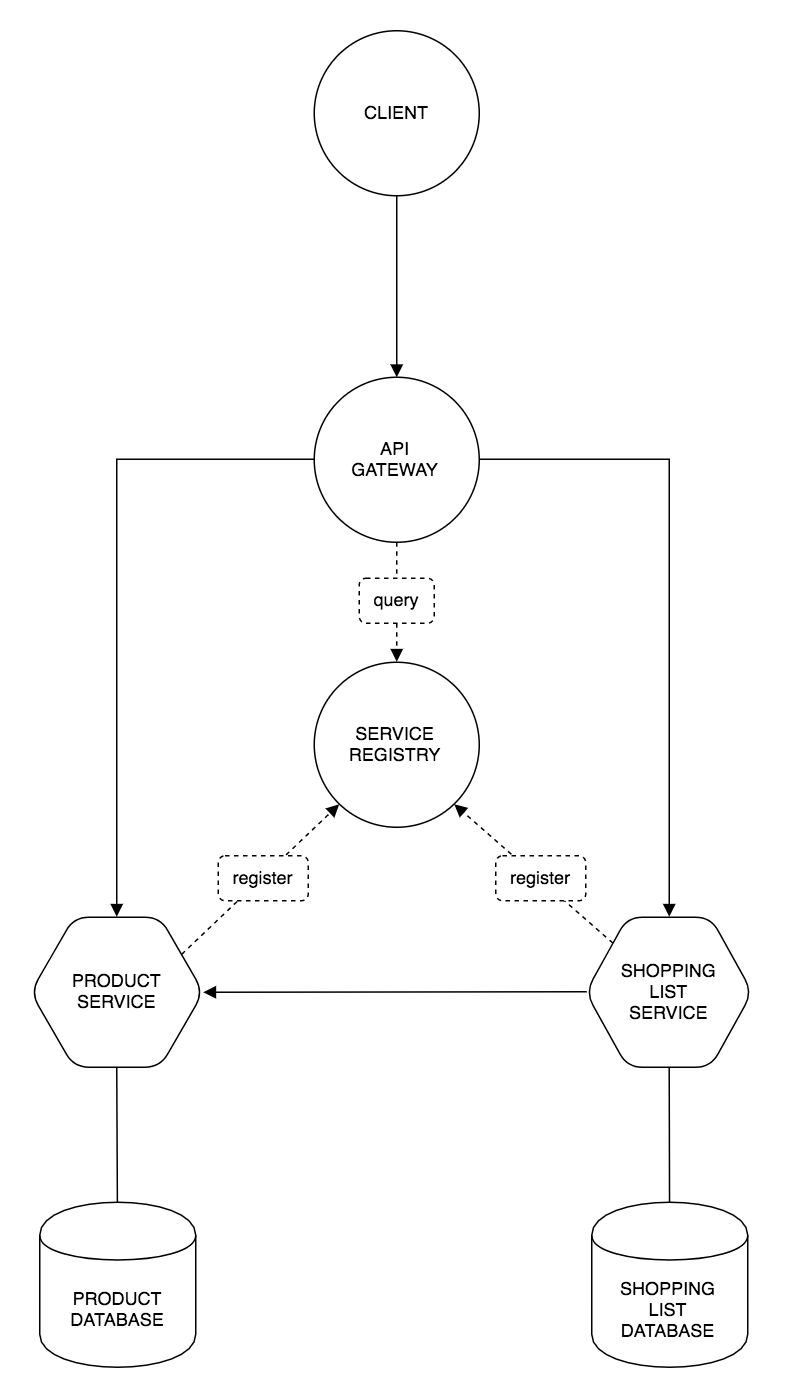
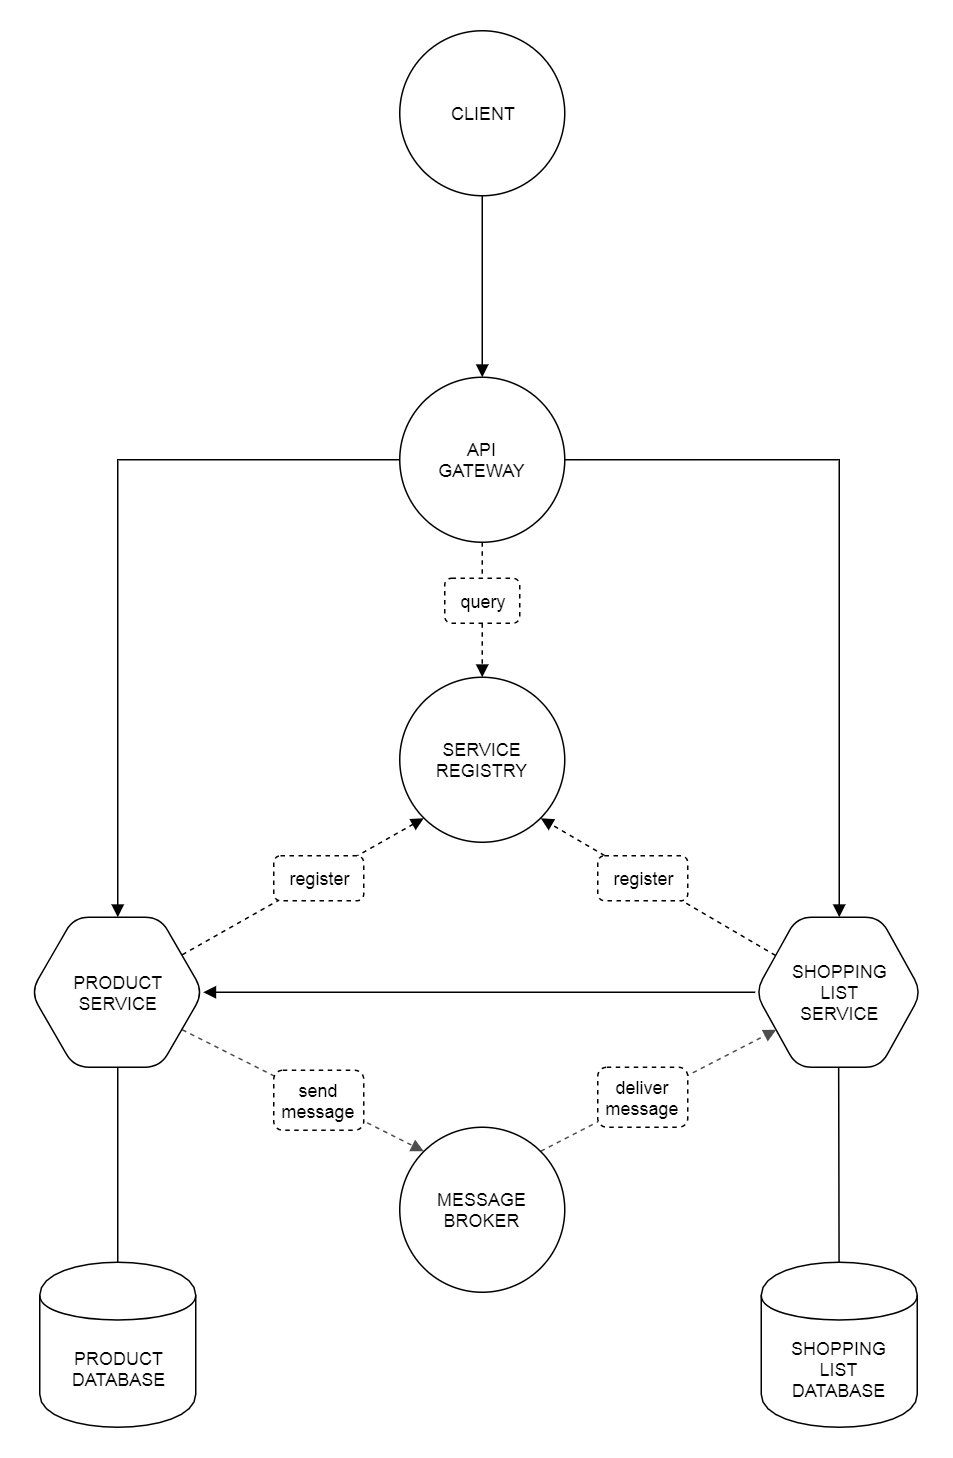
Update diagram with message broker.

diff --git a/README.md b/README.md
@@ -33,7 +33,7 @@ This application depends on external services. Ensure that these services are up
 
 ### MongoDB
 
-Shopping and product services use MongoDB for persistence, using different databases for each service.
+Shopping and product services use MongoDB for persistence, but different databases are used for each service.
 
 Before running the application, ensure that you have a MongoDB instance running on `localhost` port `27017` (default port). The `product` and `shopping-list` databases will be created by the application.
 
